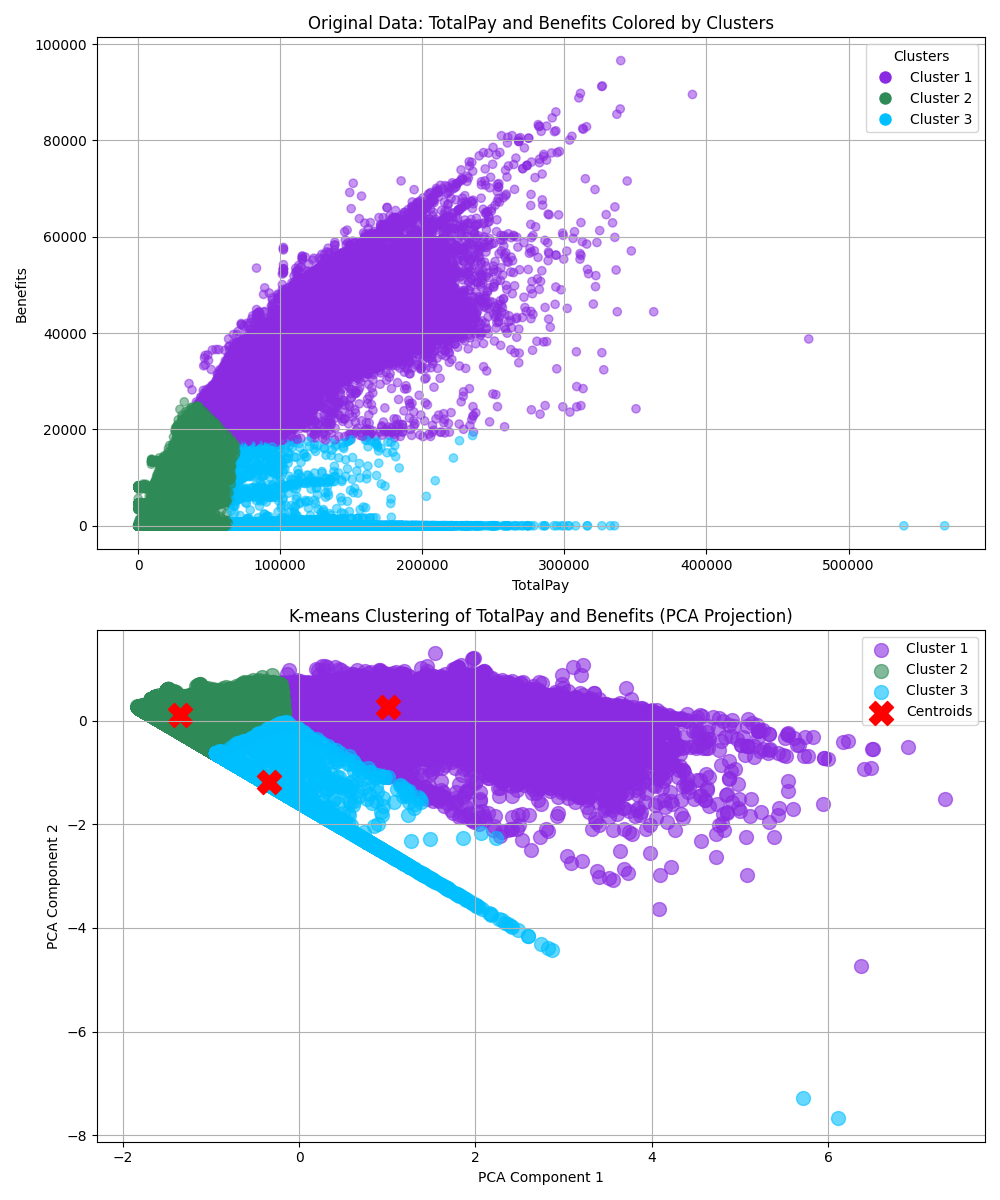
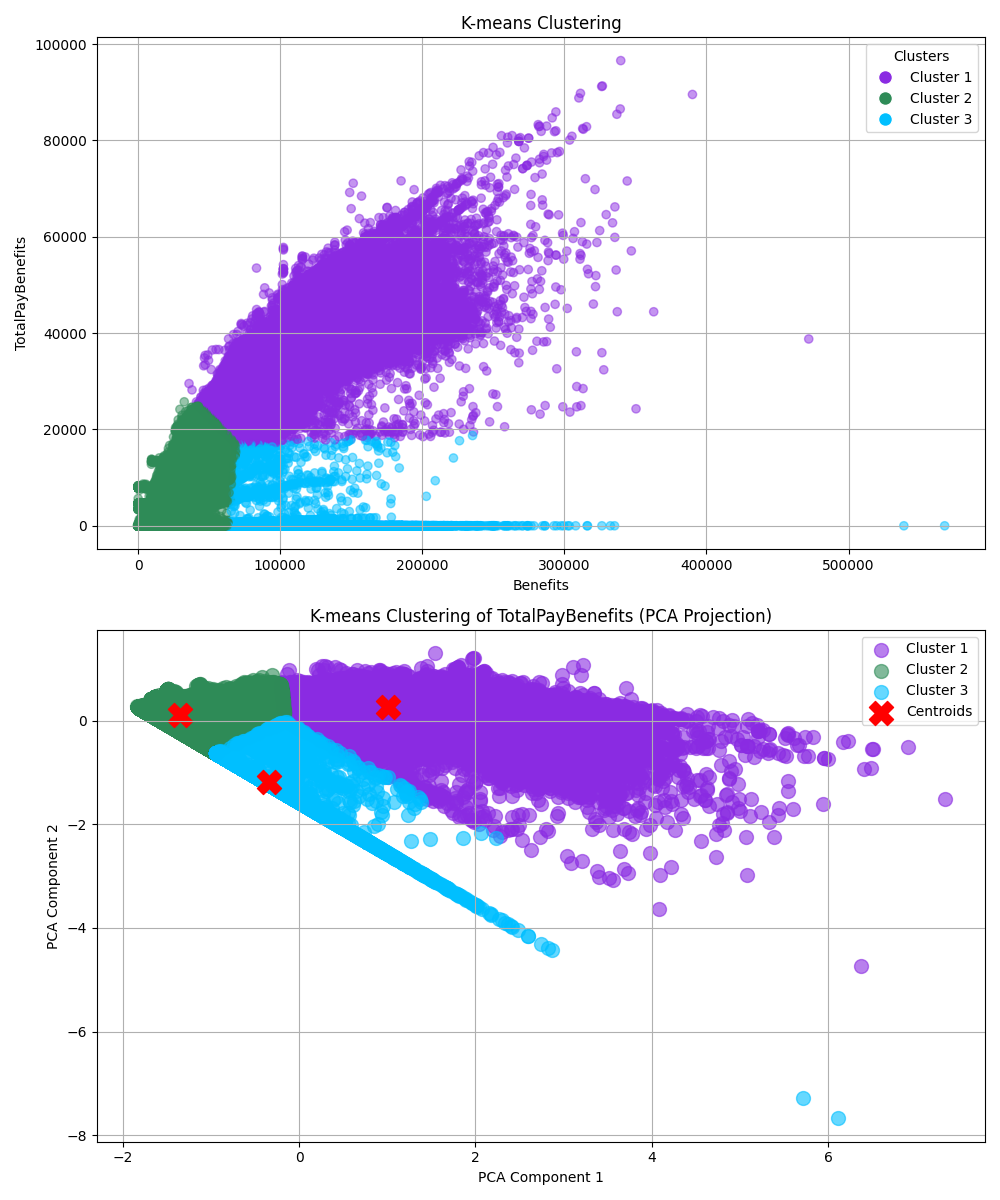
chore: clean redundant data

Changed region(s): [[0.279, 0.4625, 0.775, 0.5242], [0.31, 0.0, 0.775, 0.0308], [0.0, 0.185, 0.031, 0.2775]]

diff --git a/lab4/utils.py b/lab4/utils.py
@@ -44,14 +44,13 @@ def preprocessData(filename):
     return data
 
 def trainModels(data, results_dir, trainColumns, remove=False):
-    # Prepare the features and target variable
+    # Select the features and target variable
     X = data[trainColumns]
     y = data['TotalPayBenefits']
 
     # Split the data into training and testing sets
     X_train, X_test, y_train, y_test = train_test_split(X, y, test_size=0.2, random_state=42)
 
-    # Initialize models
     linear_model = LinearRegression()
     elastic_net_model = ElasticNet(alpha=0.5, l1_ratio=0.5, random_state=42)
     lars_model = Lars()
@@ -68,7 +67,7 @@ def trainModels(data, results_dir, trainColumns, remove=False):
 
     # Evaluate models
     metrics = {
-        "Model": ["Linear Regression", "Elastic Net", "Least-angle Regression (LARS)"],
+        "Model": ["Linear Regression", "Elastic Net Regularization", "Least-angle Regression (LARS)"],
         "Mean Squared Error": [
             mean_squared_error(y_test, y_pred_linear),
             mean_squared_error(y_test, y_pred_elastic),
@@ -93,10 +92,11 @@ def trainModels(data, results_dir, trainColumns, remove=False):
 
     models = {
         "Linear Regression": (y_pred_linear, 'blue'),
-        "Elastic Net": (y_pred_elastic, 'green'),
+        "Elastic Net Regularization": (y_pred_elastic, 'green'),
         "LARS": (y_pred_lars, 'purple')
     }
 
+    # Visualize the results
     for model_name, (predictions, color) in models.items():
         plt.figure(figsize=(10, 6))
         plt.scatter(y_test, predictions, label='Predicted', color=color, alpha=0.6)
@@ -133,20 +133,19 @@ def clusterAndVisualize(data, results_dir):
     colors = list(color_map.values())
 
     plt.figure(figsize=(10, 12))
-    # Subplot for original data
     plt.subplot(2, 1, 1)
     scatter = plt.scatter(data['TotalPay'], data['Benefits'], 
                           c=data['Cluster'].map(color_map), alpha=0.5)
-    plt.title('Original Data: TotalPay and Benefits Colored by Clusters')
-    plt.xlabel('TotalPay')
-    plt.ylabel('Benefits')
+    plt.title('K-means Clustering')
+    plt.xlabel('Benefits')
+    plt.ylabel('TotalPayBenefits')
     plt.grid()
     handles = [plt.Line2D([0], [0], marker='o', color='w', 
                            markerfacecolor=color, markersize=10) for color in colors]
     plt.legend(handles, [f'Cluster {i + 1}' for i in range(len(colors))], title='Clusters')
 
     # Subplot for PCA-transformed data
-    plt.subplot(2, 1, 2)  # 2 rows, 1 column, second subplot
+    plt.subplot(2, 1, 2)
     for cluster, color in color_map.items():
         plt.scatter(pca_features[data['Cluster'] == cluster, 0], 
                     pca_features[data['Cluster'] == cluster, 1], 
@@ -156,7 +155,7 @@ def clusterAndVisualize(data, results_dir):
     # Plotting the cluster centers
     centers = pca.transform(kmeans.cluster_centers_)
     plt.scatter(centers[:, 0], centers[:, 1], s=300, c='red', label='Centroids', marker='X')
-    plt.title('K-means Clustering of TotalPay and Benefits (PCA Projection)')
+    plt.title('K-means Clustering of TotalPayBenefits (PCA Projection)')
     plt.xlabel('PCA Component 1')
     plt.ylabel('PCA Component 2')
     plt.legend()
@@ -166,17 +165,14 @@ def clusterAndVisualize(data, results_dir):
     plt.close()
 
 def predictedClusters(data, results_dir, elastic_net_model):
-    # Select relevant features for clustering
     features = data[['TotalPay', 'Benefits']]
     # Scale the data
     scaler = StandardScaler()
     scaled_features = scaler.fit_transform(features)
-
     # Fit the K-means model
     kmeans = KMeans(n_clusters=3, random_state=42)
     kmeans.fit(scaled_features)
 
-    # Assign clusters to the original data
     data['Cluster'] = kmeans.labels_
     data['PredictedTotalPayBenefits'] = elastic_net_model.predict(data[['TotalPay', 'Benefits']])
 
@@ -184,7 +180,7 @@ def predictedClusters(data, results_dir, elastic_net_model):
     color_map = {0: 'blue', 1: 'green', 2: 'orange'}
     plt.figure(figsize=(10, 8))
     
-    # Plot each cluster with a loop
+    # Plot each cluster
     for cluster, color in color_map.items():
         plt.scatter(data[data['Cluster'] == cluster]['TotalPay'], 
                     data[data['Cluster'] == cluster]['PredictedTotalPayBenefits'], 
@@ -194,7 +190,7 @@ def predictedClusters(data, results_dir, elastic_net_model):
 
     max_value = max(data['TotalPayBenefits'].max(), data['PredictedTotalPayBenefits'].max())
     plt.plot([0, max_value], [0, max_value], color='red', linestyle='--', linewidth=2, label='Actual Values')
-    plt.title('Predicted vs Actual TotalPayBenefits by Clusters')
+    plt.title('Predicted (Elastic Net Regularization) vs Actual TotalPayBenefits by Clusters')
     plt.xlabel('TotalPayBenefits')
     plt.ylabel('Predicted TotalPayBenefits')
     plt.legend()

diff --git a/lab4/main.py b/lab4/main.py
@@ -13,7 +13,7 @@ if __name__ == '__main__':
     data = preprocessData(data_file)
 
     # Exploratory Data Analysis (EDA)
-    statistics = data[['BasePay', 'TotalPay', 'TotalPayBenefits', 'Year']].describe()
+    statistics = data[['Benefits', 'TotalPay', 'TotalPayBenefits', 'Year']].describe()
     statistics_df = pd.DataFrame(statistics)
     statistics_str = tabulate(statistics_df, headers='keys', tablefmt='grid', stralign='center', numalign='center')
 
@@ -21,7 +21,7 @@ if __name__ == '__main__':
     with open(f"{results_dir}/statistics.txt", "w") as file:
         file.write(statistics_str)
 
-    # Distribution of BasePay and OvertimePay
+    # Distribution of BasePay
     plt.figure(figsize=(10, 6))
     sns.histplot(data['BasePay'].dropna(), kde=True, color='green', bins=30)
     plt.title("Distribution of BasePay")
@@ -51,5 +51,5 @@ if __name__ == '__main__':
     # Cluster and Visualize
     clusterAndVisualize(data, results_dir)
 
-    # Analyze and Visualize Clusters
+    # Analyze best model predictions with clusters
     predictedClusters(predictedData, results_dir, elasticNetModel)
